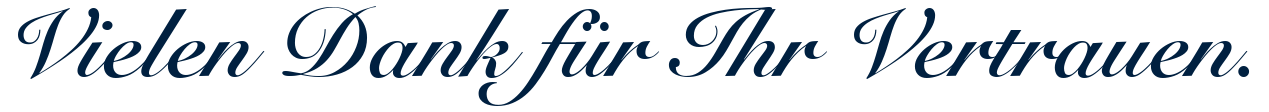
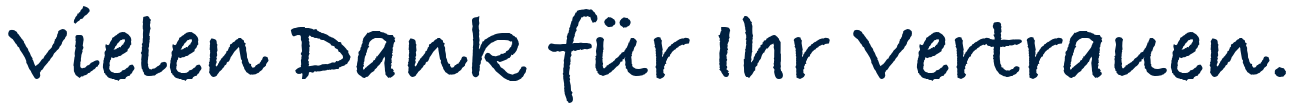
Use a simpler handwritten invoice closing

Changed region(s): [[0.0, 0.055, 1.0, 0.9633]]

diff --git a/billing/index.html b/billing/index.html
@@ -1,1 +1,1 @@
-<!doctype html><html lang="nl"><head><meta charset="utf-8"><meta name="viewport" content="width=device-width,initial-scale=1"><meta name="robots" content="noindex,nofollow"><title>VIP Capital | Uren & facturen</title><link rel="stylesheet" href="style.css?v=20261115-vies-form"></head><body><div id="access-error" class="skeleton">Je privé-administratie openen…</div><div id="billing-app" hidden><aside class="sidebar"><a class="brand" href="../admin-home.html"><img src="vip-logo.png" alt="VIP Capital"></a><div class="workspace-label">ADMIN WORKSPACE</div><a class="workspace-back" href="../admin-home.html">← Kies werkomgeving</a><nav aria-label="Administratie"><button data-view="dashboard" class="nav-item active"><span>◫</span> Overzicht</button><button data-view="hours" class="nav-item"><span>◷</span> Urenregistratie</button><button data-view="clients" class="nav-item"><span>▦</span> Klanten & projecten</button><button data-view="invoices" class="nav-item"><span>▤</span> Facturen</button><button data-view="settings" class="nav-item"><span>⚙</span> Instellingen</button></nav><div class="sidebar-foot"><div class="avatar">JP</div><div><strong>J.P. Kolfoort</strong><small>Eigen administratie · admin</small></div></div></aside><div class="shell"><header class="topbar"><div class="breadcrumb">VIP CAPITAL <span>/</span> <strong>Uren & facturen</strong></div><div class="top-actions"><span class="pill live-pill">ADMIN · PRIVÉ</span><button class="text-btn" data-action="logout">Uitloggen</button></div></header><main><div class="notice"><span class="notice-dot"></span><div><strong>Je eigen administratie. Apart van het cliëntportaal.</strong><span>Beveiligd opgeslagen voor jouw adminaccount. Factuurafzender: La Clava Elit B.V.</span></div></div><section id="page"></section></main><footer>LA CLAVA ELIT B.V. <span>Private administration · EUR / USD</span></footer></div><div id="toast" role="status" hidden></div><dialog id="dialog"><div id="dialog-content"></div></dialog><script type="module" src="app.js?v=20261115-invoice-signoff"></script></div></body></html>
+<!doctype html><html lang="nl"><head><meta charset="utf-8"><meta name="viewport" content="width=device-width,initial-scale=1"><meta name="robots" content="noindex,nofollow"><title>VIP Capital | Uren & facturen</title><link rel="stylesheet" href="style.css?v=20261115-vies-form"></head><body><div id="access-error" class="skeleton">Je privé-administratie openen…</div><div id="billing-app" hidden><aside class="sidebar"><a class="brand" href="../admin-home.html"><img src="vip-logo.png" alt="VIP Capital"></a><div class="workspace-label">ADMIN WORKSPACE</div><a class="workspace-back" href="../admin-home.html">← Kies werkomgeving</a><nav aria-label="Administratie"><button data-view="dashboard" class="nav-item active"><span>◫</span> Overzicht</button><button data-view="hours" class="nav-item"><span>◷</span> Urenregistratie</button><button data-view="clients" class="nav-item"><span>▦</span> Klanten & projecten</button><button data-view="invoices" class="nav-item"><span>▤</span> Facturen</button><button data-view="settings" class="nav-item"><span>⚙</span> Instellingen</button></nav><div class="sidebar-foot"><div class="avatar">JP</div><div><strong>J.P. Kolfoort</strong><small>Eigen administratie · admin</small></div></div></aside><div class="shell"><header class="topbar"><div class="breadcrumb">VIP CAPITAL <span>/</span> <strong>Uren & facturen</strong></div><div class="top-actions"><span class="pill live-pill">ADMIN · PRIVÉ</span><button class="text-btn" data-action="logout">Uitloggen</button></div></header><main><div class="notice"><span class="notice-dot"></span><div><strong>Je eigen administratie. Apart van het cliëntportaal.</strong><span>Beveiligd opgeslagen voor jouw adminaccount. Factuurafzender: La Clava Elit B.V.</span></div></div><section id="page"></section></main><footer>LA CLAVA ELIT B.V. <span>Private administration · EUR / USD</span></footer></div><div id="toast" role="status" hidden></div><dialog id="dialog"><div id="dialog-content"></div></dialog><script type="module" src="app.js?v=20261115-invoice-handwriting"></script></div></body></html>

diff --git a/billing/app.js b/billing/app.js
@@ -1,4 +1,4 @@
-import {Billing} from './data.js?v=20261115-invoice-signoff';
+import {Billing} from './data.js?v=20261115-invoice-handwriting';
 const languages={nl:'Nederlands',en:'Engels',de:'Duits'};
 let S,view=['dashboard','hours','clients','invoices','settings'].includes(location.hash.slice(1))?location.hash.slice(1):'dashboard',toastTimer;const $=id=>document.getElementById(id),esc=s=>String(s??'').replace(/[&<>"']/g,c=>({'&':'&amp;','<':'&lt;','>':'&gt;','"':'&quot;',"'":'&#39;'}[c])),h=n=>(n/60).toLocaleString('nl-NL',{minimumFractionDigits:2,maximumFractionDigits:2}),m=(n,c='EUR')=>new Intl.NumberFormat('nl-NL',{style:'currency',currency:c}).format(n/100),datum=s=>new Date(s+'T12:00:00').toLocaleDateString('nl-NL',{day:'2-digit',month:'short',year:'numeric'}),total=e=>Math.floor((e.minutes*e.rate_cents+30)/60),sum=a=>a.reduce((n,e)=>n+total(e),0);
 const statusLabel={draft:'Concept',pending_pdf:'PDF afronden',issued:'Uitgereikt',paid:'Betaald',credited:'Gecrediteerd'};

diff --git a/billing/invoice-pdf.js b/billing/invoice-pdf.js
@@ -143,7 +143,7 @@ export async function createInvoicePDF(inv){
   y-=15;
   if(y<75)newPage();
   try{
-   const response=await fetch(new URL('./invoice-thanks-'+lang+'.png',import.meta.url));
+   const response=await fetch(new URL('./invoice-thanks-'+lang+'.png?v=20261115-handwriting',import.meta.url));
    if(!response.ok)throw Error('Invoice closing graphic unavailable');
    const script=await pdf.embedPng(await response.arrayBuffer());
    const height=14,width=height*script.width/script.height;

diff --git a/billing/data.js b/billing/data.js
@@ -1,5 +1,5 @@
 import {config} from '../portal-config.js';
-import {createInvoicePDF} from './invoice-pdf.js?v=20261115-invoice-signoff';
+import {createInvoicePDF} from './invoice-pdf.js?v=20261115-invoice-handwriting';
 const checked=r=>{if(r.error)throw r.error;return r.data};let db,revision,raw,member;const urls=[];
 export const Billing={
  async init(){
